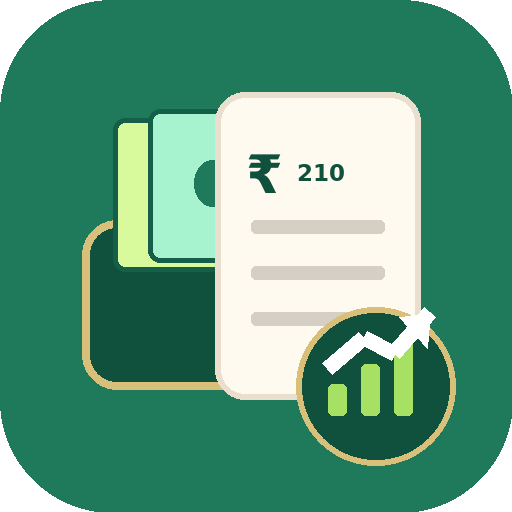
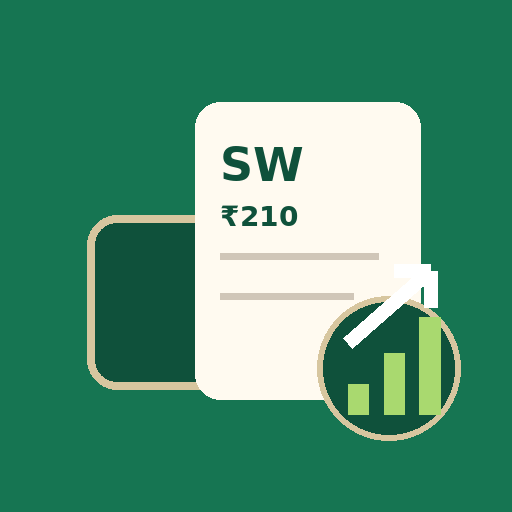
Add files via upload

diff --git a/budget.html b/budget.html
@@ -1,8 +1,1 @@
-<!DOCTYPE html><html lang="en"><head><meta charset="UTF-8"><meta name="viewport" content="width=device-width,initial-scale=1.0"><title>Budget - Spendwise</title><link rel="manifest" href="manifest.json"><meta name="theme-color" content="#1f7a5c"><link rel="apple-touch-icon" href="icon-192.png"><link rel="stylesheet" href="styles.css"></head><body data-page="budget"><main class="wrap"><header class="topbar"><div class="brand"><div class="logo">%</div><div><h1>Budget Split</h1><p>Plan salary before spending</p></div></div><a class="btn" href="index.html">Home</a></header><section class="grid"><div class="card span-5"><h3>Monthly Salary</h3><p class="sub">This is stored only on this phone/browser.</p><label>Salary</label><input id="salary" type="number" placeholder="30000" oninput="setSalary()"><div class="range-row"><div class="range-head"><span>Needs</span><span id="needsText">50%</span></div><input id="needsPercent" type="range" min="0" max="100" oninput="updateBudget()"></div><div class="range-row"><div class="range-head"><span>Wants</span><span id="wantsText">30%</span></div><input id="wantsPercent" type="range" min="0" max="100" oninput="updateBudget()"></div><div class="range-row"><div class="range-head"><span>Savings</span><span id="savingsText">20%</span></div><input id="savingsPercent" type="range" min="0" max="100" oninput="updateBudget()"></div><div id="budgetWarning" class="insight"></div></div><div class="card span-7"><h3>Budget Progress</h3><p class="sub">Compare actual spending against planned salary split.</p><div id="budgetProgress"></div></div></section></main><nav class="bottom-nav">
-  <a data-page="dashboard" href="index.html"><b>⌂</b>Home</a>
-  <a data-page="expense" href="expense.html"><b>＋</b>Expense</a>
-  <a data-page="recurring" href="recurring.html"><b>↻</b>Daily</a>
-  <a data-page="budget" href="budget.html"><b>%</b>Budget</a>
-  <a data-page="reports" href="reports.html"><b>▦</b>Report</a>
-  <a data-page="settings" href="settings.html"><b>⚙</b>Settings</a>
-</nav><script src="app.js"></script></body></html>
+<!DOCTYPE html><html lang="en"><head><meta charset="UTF-8"><meta name="viewport" content="width=device-width, initial-scale=1.0"><title>Budget Split</title><link rel="manifest" href="manifest.json"><meta name="theme-color" content="#167552"><link rel="apple-touch-icon" href="icon-192.png"><link rel="stylesheet" href="style.css"></head><body><div id="toast" class="toast"></div><main class="wrap"><div class="topbar"><a class="back" href="index.html">← Home</a></div><section class="hero"><span class="pill">Salary planning</span><h1>Budget Split</h1><p>Set percentage allocation for needs, wants and savings. Keep total at 100%.</p></section><section class="grid"><div class="card half"><h2>Monthly salary</h2><label>Salary</label><input id="salary" type="number" placeholder="30000"><button class="primary" style="width:100%;margin-top:12px" onclick="saveBudget()">Save salary & split</button></div><div class="card half"><h2>Split control</h2><div class="range-row"><div class="range-head"><span>Needs</span><span id="needsText">50%</span></div><input id="needs" type="range" min="0" max="100" oninput="live()"></div><div class="range-row"><div class="range-head"><span>Wants</span><span id="wantsText">30%</span></div><input id="wants" type="range" min="0" max="100" oninput="live()"></div><div class="range-row"><div class="range-head"><span>Savings</span><span id="savingsText">20%</span></div><input id="savings" type="range" min="0" max="100" oninput="live()"></div><div id="warning" class="insight"></div></div><div class="card span-12"><h2>Budget progress</h2><div id="progress"></div></div></section></main><script src="app.js"></script><script>nav('budget');function live(){['needs','wants','savings'].forEach(k=>qs(k+'Text').textContent=qs(k).value+'%');const total=Number(qs('needs').value)+Number(qs('wants').value)+Number(qs('savings').value);qs('warning').innerHTML=total===100?'Balanced at <strong>100%</strong>.':`Current total is <strong>${total}%</strong>. Adjust it to 100%.`}function saveBudget(){state.salary=Number(qs('salary').value||0);state.budget={needs:Number(qs('needs').value),wants:Number(qs('wants').value),savings:Number(qs('savings').value)};save();toast('Budget saved');render()}function render(){qs('salary').value=state.salary||'';qs('needs').value=state.budget.needs;qs('wants').value=state.budget.wants;qs('savings').value=state.budget.savings;live();const cats=[['needs','Needs','blue'],['wants','Wants','orange'],['savings','Savings','green'],['debt','Debt','red']];qs('progress').innerHTML=cats.map(([key,label,color])=>{const budget=key==='debt'?state.salary*.15:state.salary*((state.budget[key]||0)/100);const spent=categorySpend(key);const pct=budget?(spent/budget)*100:0;const rem=budget-spent;return `<div class="insight"><div class="row"><div><strong>${label}</strong><p class="sub">${rupee(spent)} used from ${rupee(budget)}</p></div><span class="tag ${rem<0?'tag-red':'tag-blue'}">${rem<0?'Over '+rupee(Math.abs(rem)):'Left '+rupee(rem)}</span></div><div class="meter"><div class="bar ${rem<0?'red':color}" style="width:${Math.min(pct,100)}%"></div></div></div>`}).join('')}render();</script></body></html>

diff --git a/expense.html b/expense.html
@@ -1,8 +1,1 @@
-<!DOCTYPE html><html lang="en"><head><meta charset="UTF-8"><meta name="viewport" content="width=device-width,initial-scale=1.0"><title>Add Expense - Spendwise</title><link rel="manifest" href="manifest.json"><meta name="theme-color" content="#1f7a5c"><link rel="apple-touch-icon" href="icon-192.png"><link rel="stylesheet" href="styles.css"></head><body data-page="expense"><main class="wrap"><header class="topbar"><div class="brand"><div class="logo">＋</div><div><h1>Add Expense</h1><p>Record what was actually spent today</p></div></div><a class="btn" href="index.html">Home</a></header><div class="page-title"><h2>Today’s actual expense</h2><p class="sub">This compares against the daily recurring limit.</p></div><section class="grid"><div class="card span-7"><h3>Add Expense</h3><div class="form-grid" style="margin-top:14px"><div><label>Expense name</label><input id="expName" placeholder="Extra snacks, petrol, online food"></div><div><label>Amount</label><input id="expAmount" type="number" placeholder="250"></div><div><label>Category</label><select id="expCategory"><option value="food">Food</option><option value="snacks">Snacks</option><option value="travel">Travel</option><option value="badHabit">Bad Habit</option><option value="needs">Needs</option><option value="wants">Wants</option><option value="savings">Savings</option><option value="debt">Debt</option></select></div><div><label>Date</label><input id="expDate" type="date"></div><button class="btn primary full" onclick="addExpense()">Save Expense</button></div></div><div class="card span-5"><h3>Today Summary</h3><div class="insight">Today actual spend: <strong id="todaySpend">₹0</strong></div><div class="insight">This month actual spend: <strong id="monthSpend">₹0</strong></div></div><div class="card span-12"><h3>Recent Expenses</h3><p class="sub">Latest entries from this phone/browser.</p><div class="list" id="expenseList"></div></div></section></main><nav class="bottom-nav">
-  <a data-page="dashboard" href="index.html"><b>⌂</b>Home</a>
-  <a data-page="expense" href="expense.html"><b>＋</b>Expense</a>
-  <a data-page="recurring" href="recurring.html"><b>↻</b>Daily</a>
-  <a data-page="budget" href="budget.html"><b>%</b>Budget</a>
-  <a data-page="reports" href="reports.html"><b>▦</b>Report</a>
-  <a data-page="settings" href="settings.html"><b>⚙</b>Settings</a>
-</nav><script src="app.js"></script></body></html>
+<!DOCTYPE html><html lang="en"><head><meta charset="UTF-8"><meta name="viewport" content="width=device-width, initial-scale=1.0"><title>Add Expense</title><link rel="manifest" href="manifest.json"><meta name="theme-color" content="#167552"><link rel="apple-touch-icon" href="icon-192.png"><link rel="stylesheet" href="style.css"></head><body><div id="toast" class="toast"></div><main class="wrap"><div class="topbar"><a class="back" href="index.html">← Home</a></div><section class="hero"><span class="pill">Actual spending entry</span><h1>Add Expense</h1><p>Add what was actually spent today. The app will compare it with the planned daily limit.</p></section><section class="grid"><div class="card two-third"><h2>New actual expense</h2><p class="sub">Example: spent ₹250 today while daily fixed limit is ₹200, report shows crossed by ₹50.</p><div class="form"><div><label>Expense name</label><input id="name" placeholder="Extra snacks, petrol, food order"></div><div><label>Amount</label><input id="amount" type="number" placeholder="250"></div><div><label>Category</label><select id="category"><option value="food">Food</option><option value="snacks">Snacks</option><option value="travel">Travel</option><option value="badHabit">Bad Habit</option><option value="needs">Needs</option><option value="wants">Wants</option><option value="savings">Savings</option><option value="debt">Debt</option></select></div><div><label>Date</label><input id="date" type="date"></div><button class="primary full" onclick="add()">Save expense</button></div></div><div class="card third stat"><p>Today spent</p><h3 id="today">₹0</h3><p id="todayHint">Actual expense total.</p></div><div class="card span-12"><h2>Today’s entries</h2><p class="sub">Only today’s expenses are shown here to avoid clutter.</p><div id="list" class="list"></div></div></section></main><script src="app.js"></script><script>nav('expense');qs('date').value=todayISO;function add(){const name=qs('name').value.trim(),amount=Number(qs('amount').value),category=qs('category').value,date=qs('date').value||todayISO;if(!name||!amount||amount<=0){alert('Enter valid expense details');return}state.expenses.unshift({id:Date.now(),name,amount,category,date});save();qs('name').value='';qs('amount').value='';toast('Expense added');render()}function del(id){state.expenses=state.expenses.filter(e=>e.id!==id);save();render()}function render(){qs('today').textContent=rupee(todaySpend());const limit=dailyLimit(),spent=todaySpend();qs('todayHint').textContent=limit&&spent>limit?`Limit crossed by ${rupee(spent-limit)}`:`Daily limit ${rupee(limit)}`;const rows=state.expenses.filter(e=>e.date===todayISO);qs('list').innerHTML=rows.length?rows.map(e=>`<div class="item"><div><strong>${e.name}</strong><small>${e.category} • ${e.date}</small><br><span class="tag tag-blue">${rupee(e.amount)}</span></div><button class="danger" onclick="del(${e.id})">Delete</button></div>`).join(''):'<div class="empty">No expense added today.</div>'}render();</script></body></html>

diff --git a/index.html b/index.html
@@ -1,8 +1,1 @@
-<!DOCTYPE html><html lang="en"><head><meta charset="UTF-8"><meta name="viewport" content="width=device-width,initial-scale=1.0"><title>Spendwise Daily</title><link rel="manifest" href="manifest.json"><meta name="theme-color" content="#1f7a5c"><meta name="mobile-web-app-capable" content="yes"><meta name="apple-mobile-web-app-capable" content="yes"><meta name="apple-mobile-web-app-title" content="Spendwise"><link rel="apple-touch-icon" href="icon-192.png"><link rel="stylesheet" href="styles.css"></head><body data-page="dashboard"><main class="wrap"><header class="topbar"><div class="brand"><div class="logo">₹</div><div><h1>Spendwise Daily</h1><p>Offline daily expense PWA</p></div></div><a class="btn" href="settings.html">Settings</a></header><section class="hero"><span class="eyebrow">Daily limit + recurring spend tracker</span><h2>Control the small daily leaks.</h2><p>Track fixed daily habits and actual expenses. The dashboard tells your colleague exactly when today’s spending crosses the limit.</p></section><section class="grid"><div class="card span-3 stat"><p class="sub">Today planned limit</p><div class="num" id="dailyLimit">₹0</div></div><div class="card span-3 stat"><p class="sub">Today actual spend</p><div class="num" id="todaySpend">₹0</div></div><div class="card span-3 stat"><p class="sub">Monthly habit cost</p><div class="num" id="monthlyHabit">₹0</div></div><div class="card span-3 stat"><p class="sub">Month actual spend</p><div class="num" id="monthSpend">₹0</div></div><div class="card span-8"><h3>Daily Spend Meter</h3><p class="sub">Actual spend compared with planned daily recurring limit.</p><div class="meter"><div id="dailyBar" class="bar blue"></div></div><div id="dailyResult" class="insight"></div><div class="quick"><a href="expense.html">Add expense<span>Today’s actual spend</span></a><a href="recurring.html">Daily recurring<span>Smoking, snacks, food</span></a><a href="budget.html">Budget split<span>Needs, wants, savings</span></a><a href="reports.html">View report<span>Monthly leakage</span></a></div></div><div class="card span-4"><h3>Smart Insights</h3><p class="sub">Useful messages based on current data.</p><div id="quickInsights"></div></div></section></main><nav class="bottom-nav">
-  <a data-page="dashboard" href="index.html"><b>⌂</b>Home</a>
-  <a data-page="expense" href="expense.html"><b>＋</b>Expense</a>
-  <a data-page="recurring" href="recurring.html"><b>↻</b>Daily</a>
-  <a data-page="budget" href="budget.html"><b>%</b>Budget</a>
-  <a data-page="reports" href="reports.html"><b>▦</b>Report</a>
-  <a data-page="settings" href="settings.html"><b>⚙</b>Settings</a>
-</nav><script src="app.js"></script></body></html>
+<!DOCTYPE html><html lang="en"><head><meta charset="UTF-8"><meta name="viewport" content="width=device-width, initial-scale=1.0"><title>Spendwise Daily</title><link rel="manifest" href="manifest.json"><meta name="theme-color" content="#167552"><link rel="apple-touch-icon" href="icon-192.png"><link rel="stylesheet" href="style.css"></head><body><div id="toast" class="toast"></div><main class="wrap"><section class="hero"><span class="pill">Installable daily expense PWA</span><h1>Spendwise Daily</h1><p>A clean mobile-first money assistant for daily recurring expenses, actual spend tracking, budget split and reports.</p></section><section class="grid"><div class="card third stat"><p>Today Limit</p><h3 id="limit">₹0</h3><p>From recurring daily expenses.</p></div><div class="card third stat"><p>Today Spent</p><h3 id="spent">₹0</h3><p>Actual expenses added today.</p></div><div class="card third stat"><p>Monthly Habits</p><h3 id="monthly">₹0</h3><p>Daily recurring cost projection.</p></div><div class="card two-third"><h2>Today’s spend meter</h2><p class="sub">Your colleague can open this first and instantly know whether today is under control.</p><div id="status" class="insight"></div><div class="meter"><div id="dailyBar" class="bar blue"></div></div><p id="meterHint" class="sub"></p></div><div class="card third"><h2>Quick actions</h2><p class="sub">Separate pages keep the app clean on mobile.</p><div class="quick"><a href="expense.html">Add expense<small>Enter today’s real spend</small></a><a href="recurring.html">Daily fixed spend<small>Smoking, snacks, food, tea</small></a><a href="budget.html">Budget split<small>Needs, wants, savings</small></a><a href="reports.html">Reports<small>Monthly leakage and alerts</small></a></div></div><div class="card half"><h2>Salary setup</h2><p class="sub">Saved on this device using browser cache/localStorage.</p><label>Monthly salary</label><input id="salary" type="number" placeholder="30000"><button class="primary" style="width:100%;margin-top:12px" onclick="saveSalary()">Save salary</button></div><div class="card half"><h2>Money summary</h2><div id="summary"></div></div></section></main><script src="app.js"></script><script>nav('home');function saveSalary(){state.salary=Number(qs('salary').value||0);save();toast('Salary saved');render()}function render(){qs('limit').textContent=rupee(dailyLimit());qs('spent').textContent=rupee(todaySpend());qs('monthly').textContent=rupee(recurringMonthly());qs('salary').value=state.salary||'';qs('status').innerHTML=dailyStatusHTML();const limit=dailyLimit(),spent=todaySpend();setMeter('dailyBar',limit?(spent/limit)*100:0,spent>limit?'red':'green');qs('meterHint').textContent=limit?`Today planned ${rupee(limit)} and actual spend is ${rupee(spent)}.`:'Create daily recurring expenses to start tracking daily limit.';qs('summary').innerHTML=`<div class="insight">Salary: <strong>${rupee(state.salary)}</strong></div><div class="insight">Total manual expenses: <strong>${rupee(allSpent())}</strong></div><div class="insight">Balance after manual expenses: <strong>${rupee(state.salary-allSpent())}</strong></div>`}render();</script></body></html>

diff --git a/recurring.html b/recurring.html
@@ -1,8 +1,1 @@
-<!DOCTYPE html><html lang="en"><head><meta charset="UTF-8"><meta name="viewport" content="width=device-width,initial-scale=1.0"><title>Daily Recurring - Spendwise</title><link rel="manifest" href="manifest.json"><meta name="theme-color" content="#1f7a5c"><link rel="apple-touch-icon" href="icon-192.png"><link rel="stylesheet" href="styles.css"></head><body data-page="recurring"><main class="wrap"><header class="topbar"><div class="brand"><div class="logo">↻</div><div><h1>Daily Recurring</h1><p>Fixed daily habit and lifestyle costs</p></div></div><a class="btn" href="index.html">Home</a></header><section class="grid"><div class="card span-4 stat"><p class="sub">Daily limit</p><div class="num" id="dailyLimit">₹0</div></div><div class="card span-4 stat"><p class="sub">Monthly habit cost</p><div class="num" id="monthlyHabit">₹0</div></div><div class="card span-4 stat"><p class="sub">Yearly habit impact</p><div class="num" id="yearlyHabit">₹0</div></div><div class="card span-5"><h3>Add recurring daily expense</h3><p class="sub">Example: smoking ₹30/day, snacks ₹50/day, food ordering ₹100/day.</p><div class="form-grid"><div><label>Name</label><input id="recName" placeholder="Smoking, snacks, tea"></div><div><label>Daily amount</label><input id="recAmount" type="number" placeholder="30"></div><div><label>Category</label><select id="recCategory"><option value="wants">Wants</option><option value="needs">Needs</option><option value="badHabit">Bad Habit</option><option value="food">Food</option><option value="travel">Travel</option></select></div><div><label>Frequency</label><select id="recFrequency"><option value="daily">Every day</option><option value="workdays">Only workdays</option></select></div><button class="btn primary full" onclick="addRecurring()">Add Recurring</button></div></div><div class="card span-7"><h3>Recurring List</h3><p class="sub">These items create the daily spend limit.</p><div class="list" id="recurringList"></div></div></section></main><nav class="bottom-nav">
-  <a data-page="dashboard" href="index.html"><b>⌂</b>Home</a>
-  <a data-page="expense" href="expense.html"><b>＋</b>Expense</a>
-  <a data-page="recurring" href="recurring.html"><b>↻</b>Daily</a>
-  <a data-page="budget" href="budget.html"><b>%</b>Budget</a>
-  <a data-page="reports" href="reports.html"><b>▦</b>Report</a>
-  <a data-page="settings" href="settings.html"><b>⚙</b>Settings</a>
-</nav><script src="app.js"></script></body></html>
+<!DOCTYPE html><html lang="en"><head><meta charset="UTF-8"><meta name="viewport" content="width=device-width, initial-scale=1.0"><title>Recurring Daily</title><link rel="manifest" href="manifest.json"><meta name="theme-color" content="#167552"><link rel="apple-touch-icon" href="icon-192.png"><link rel="stylesheet" href="style.css"></head><body><div id="toast" class="toast"></div><main class="wrap"><div class="topbar"><a class="back" href="index.html">← Home</a></div><section class="hero"><span class="pill">Daily fixed spending</span><h1>Recurring Daily</h1><p>Add fixed daily expenses like smoking ₹30, snacks ₹50, food ordering ₹100, parking ₹20.</p></section><section class="grid"><div class="card two-third"><h2>Add daily recurring expense</h2><p class="sub">This creates the planned daily limit.</p><div class="form"><div><label>Name</label><input id="name" placeholder="Smoking, snacks, tea"></div><div><label>Daily amount</label><input id="amount" type="number" placeholder="30"></div><div><label>Category</label><select id="category"><option value="badHabit">Bad Habit</option><option value="food">Food</option><option value="travel">Travel</option><option value="wants">Wants</option><option value="needs">Needs</option></select></div><div><label>Frequency</label><select id="frequency"><option value="daily">Every day</option><option value="workdays">Only workdays</option></select></div><button class="primary full" onclick="add()">Add recurring expense</button></div></div><div class="card third stat"><p>Daily limit</p><h3 id="limit">₹0</h3><p>Sum of all daily recurring items.</p></div><div class="card span-12"><h2>Recurring items</h2><div id="list" class="list"></div></div></section></main><script src="app.js"></script><script>nav('recurring');function add(){const name=qs('name').value.trim(),amount=Number(qs('amount').value),category=qs('category').value,frequency=qs('frequency').value;if(!name||!amount||amount<=0){alert('Enter valid recurring details');return}state.recurring.unshift({id:Date.now(),name,amount,category,frequency});save();qs('name').value='';qs('amount').value='';toast('Recurring item added');render()}function del(id){state.recurring=state.recurring.filter(e=>e.id!==id);save();render()}function render(){qs('limit').textContent=rupee(dailyLimit());qs('list').innerHTML=state.recurring.length?state.recurring.map(i=>{const days=i.frequency==='workdays'?22:30;return `<div class="item"><div><strong>${i.name}</strong><small>${rupee(i.amount)} per day • ${i.category} • ${i.frequency}</small><br><span class="tag tag-orange">${rupee(i.amount*days)}/month</span></div><button class="danger" onclick="del(${i.id})">Delete</button></div>`}).join(''):'<div class="empty">No daily recurring expenses added yet.</div>'}render();</script></body></html>

diff --git a/reports.html b/reports.html
@@ -1,8 +1,1 @@
-<!DOCTYPE html><html lang="en"><head><meta charset="UTF-8"><meta name="viewport" content="width=device-width,initial-scale=1.0"><title>Reports - Spendwise</title><link rel="manifest" href="manifest.json"><meta name="theme-color" content="#1f7a5c"><link rel="apple-touch-icon" href="icon-192.png"><link rel="stylesheet" href="styles.css"></head><body data-page="reports"><main class="wrap"><header class="topbar"><div class="brand"><div class="logo">▦</div><div><h1>Money Report</h1><p>Monthly leakage and habit impact</p></div></div><a class="btn" href="index.html">Home</a></header><section class="grid"><div class="card span-7"><h3>Smart Report</h3><p class="sub">Designed to show value immediately to someone who currently maintains Excel.</p><div id="reportCards"></div></div><div class="card span-5"><h3>Backup</h3><p class="sub">Export local data as JSON before changing phone/browser.</p><button class="btn primary" onclick="exportData()" style="width:100%;margin-top:12px">Export Backup</button><div class="notice">This version stores data in localStorage. It is private to the phone/browser but not synced to other devices.</div></div></section></main><nav class="bottom-nav">
-  <a data-page="dashboard" href="index.html"><b>⌂</b>Home</a>
-  <a data-page="expense" href="expense.html"><b>＋</b>Expense</a>
-  <a data-page="recurring" href="recurring.html"><b>↻</b>Daily</a>
-  <a data-page="budget" href="budget.html"><b>%</b>Budget</a>
-  <a data-page="reports" href="reports.html"><b>▦</b>Report</a>
-  <a data-page="settings" href="settings.html"><b>⚙</b>Settings</a>
-</nav><script src="app.js"></script></body></html>
+<!DOCTYPE html><html lang="en"><head><meta charset="UTF-8"><meta name="viewport" content="width=device-width, initial-scale=1.0"><title>Reports</title><link rel="manifest" href="manifest.json"><meta name="theme-color" content="#167552"><link rel="apple-touch-icon" href="icon-192.png"><link rel="stylesheet" href="style.css"></head><body><main class="wrap"><div class="topbar"><a class="back" href="index.html">← Home</a></div><section class="hero"><span class="pill">Results and insights</span><h1>Reports</h1><p>Simple reports that explain daily overspending, monthly leakage, bad habit cost and yearly impact.</p></section><section class="grid"><div class="card third stat"><p>Recurring / month</p><h3 id="recMonth">₹0</h3><p>Daily fixed expenses projected monthly.</p></div><div class="card third stat"><p>Recurring / year</p><h3 id="recYear">₹0</h3><p>Long-term impact of daily spending.</p></div><div class="card third stat"><p>Today status</p><h3 id="todayStatus">₹0</h3><p id="todaySub">Compared with daily limit.</p></div><div class="card half"><h2>Smart report</h2><div id="insights"></div></div><div class="card half"><h2>Category summary</h2><div id="cats"></div></div></section></main><script src="app.js"></script><script>nav('reports');function render(){const month=recurringMonthly(),year=month*12,limit=dailyLimit(),spent=todaySpend(),diff=spent-limit;qs('recMonth').textContent=rupee(month);qs('recYear').textContent=rupee(year);qs('todayStatus').textContent=diff>0?rupee(diff):rupee(Math.abs(diff));qs('todaySub').textContent=diff>0?'Daily limit crossed':'Remaining from daily limit';const bad=state.recurring.filter(i=>i.category==='badHabit').reduce((s,i)=>s+i.amount*(i.frequency==='workdays'?22:30),0);let ins=[];if(!state.salary)ins.push('Add salary in Budget page to unlock income comparison.');if(!state.recurring.length)ins.push('Add recurring daily spends to see monthly leakage report.');if(diff>0)ins.push(`Today you crossed the daily limit by ${rupee(diff)}. If repeated daily, extra monthly leakage can become ${rupee(diff*30)}.`);if(diff<=0&&limit)ins.push(`Today is under control by ${rupee(Math.abs(diff))}.`);if(bad)ins.push(`Bad habit cost is ${rupee(bad)} monthly. Reducing 50% saves ${rupee(bad/2)} monthly.`);if(state.salary&&month>state.salary*.25)ins.push(`Recurring daily expenses are more than 25% of salary. This needs attention.`);if(!ins.length)ins.push('Start adding daily recurring and actual expenses to generate reports.');qs('insights').innerHTML=ins.map(i=>`<div class="insight">${i}</div>`).join('');const cats=['food','snacks','travel','badHabit','needs','wants','savings','debt'];qs('cats').innerHTML=cats.map(c=>`<div class="insight"><div class="row"><strong>${c}</strong><span class="tag tag-blue">${rupee(categorySpend(c))}</span></div></div>`).join('')}render();</script></body></html>

diff --git a/settings.html b/settings.html
@@ -1,8 +1,1 @@
-<!DOCTYPE html><html lang="en"><head><meta charset="UTF-8"><meta name="viewport" content="width=device-width,initial-scale=1.0"><title>Settings - Spendwise</title><link rel="manifest" href="manifest.json"><meta name="theme-color" content="#1f7a5c"><link rel="apple-touch-icon" href="icon-192.png"><link rel="stylesheet" href="styles.css"></head><body data-page="settings"><main class="wrap"><header class="topbar"><div class="brand"><div class="logo">⚙</div><div><h1>Settings</h1><p>Install, reset, and local storage details</p></div></div><a class="btn" href="index.html">Home</a></header><section class="grid"><div class="card span-6"><h3>Install as Mobile App</h3><p class="sub">After hosting, open in Chrome on mobile and add to home screen.</p><div id="installBox" class="install-box"><button class="btn primary" onclick="installApp()" style="width:100%">Install Spendwise</button></div><div class="notice">If install button is not visible: Chrome → three dots → Add to Home screen.</div></div><div class="card span-6"><h3>Data Storage</h3><p class="sub">Data is saved in this device browser cache using localStorage. No Firebase database is used in this version.</p><button class="btn danger" onclick="resetAll()" style="width:100%;margin-top:12px">Reset All Data</button></div><div class="card span-12"><h3>Required Files</h3><div class="insight">Upload all files together: index.html, expense.html, recurring.html, budget.html, reports.html, settings.html, styles.css, app.js, manifest.json, service-worker.js, icon-192.png, icon-512.png.</div></div></section></main><nav class="bottom-nav">
-  <a data-page="dashboard" href="index.html"><b>⌂</b>Home</a>
-  <a data-page="expense" href="expense.html"><b>＋</b>Expense</a>
-  <a data-page="recurring" href="recurring.html"><b>↻</b>Daily</a>
-  <a data-page="budget" href="budget.html"><b>%</b>Budget</a>
-  <a data-page="reports" href="reports.html"><b>▦</b>Report</a>
-  <a data-page="settings" href="settings.html"><b>⚙</b>Settings</a>
-</nav><script src="app.js"></script></body></html>
+<!DOCTYPE html><html lang="en"><head><meta charset="UTF-8"><meta name="viewport" content="width=device-width, initial-scale=1.0"><title>Settings</title><link rel="manifest" href="manifest.json"><meta name="theme-color" content="#167552"><link rel="apple-touch-icon" href="icon-192.png"><link rel="stylesheet" href="style.css"></head><body><div id="toast" class="toast"></div><main class="wrap"><div class="topbar"><a class="back" href="index.html">← Home</a></div><section class="hero"><span class="pill">Device cache settings</span><h1>Settings</h1><p>Manage local mobile cache, backup and reset. Data stays on the user’s phone/browser.</p></section><section class="grid"><div class="card half"><h2>Backup</h2><p class="sub">Download data as JSON before changing phone or clearing browser data.</p><button class="primary" style="width:100%" onclick="exportJSON()">Download backup</button></div><div class="card half"><h2>Import backup</h2><p class="sub">Restore previously downloaded Spendwise backup file.</p><input type="file" accept="application/json" onchange="importJSON(this.files[0])"></div><div class="card span-12"><h2>Reset app</h2><p class="sub">This deletes salary, recurring expenses and manual expenses from this device only.</p><button class="danger" onclick="clearAll()">Delete all local data</button></div><div class="card span-12"><h2>PWA install note</h2><div class="insight">Host this folder on Firebase/GitHub Pages/Vercel. Then open in mobile Chrome and tap <strong>Add to Home screen</strong>.</div></div></section></main><script src="app.js"></script><script>nav('settings');</script></body></html>

diff --git a/style.css b/style.css
@@ -1,0 +1,8 @@
+:root{
+  --bg:#f6f1e8;--card:#fffaf1;--ink:#20242b;--muted:#74706a;--line:#e4d8c5;
+  --green:#167552;--green2:#e7f4ee;--orange:#c4662f;--orange2:#fff0e6;--red:#b42318;--red2:#fee4e2;--blue:#245b85;--blue2:#e8f2f8;
+  --shadow:0 18px 36px rgba(44,37,25,.08)
+}
+*{box-sizing:border-box;margin:0;padding:0;font-family:Inter,system-ui,-apple-system,BlinkMacSystemFont,"Segoe UI",sans-serif}
+body{background:radial-gradient(circle at top left,rgba(22,117,82,.14),transparent 30%),radial-gradient(circle at top right,rgba(196,102,47,.13),transparent 34%),var(--bg);color:var(--ink);min-height:100vh;padding-bottom:88px}
+a{text-decoration:none;color:inherit}.wrap{max-width:980px;margin:auto;padding:16px}.hero{background:linear-gradient(135deg,#152033,#27354a);color:white;border-radius:28px;padding:24px;margin:0 0 16px;box-shadow:var(--shadow);position:relative;overflow:hidden}.hero:after{content:"";position:absolute;right:-70px;top:-70px;width:220px;height:220px;border-radius:50%;background:rgba(255,255,255,.08)}.hero h1{font-size:34px;line-height:1;letter-spacing:-1.2px;margin:8px 0}.hero p{color:#d9e0ea;line-height:1.55;max-width:620px}.pill{display:inline-flex;border-radius:999px;padding:7px 11px;background:rgba(255,255,255,.13);font-size:12px;font-weight:900;color:white}.grid{display:grid;grid-template-columns:repeat(12,1fr);gap:14px}.card{grid-column:span 12;background:rgba(255,250,241,.9);border:1px solid var(--line);border-radius:24px;padding:18px;box-shadow:var(--shadow);backdrop-filter:blur(12px)}.half{grid-column:span 6}.third{grid-column:span 4}.two-third{grid-column:span 8}h2{font-size:20px;letter-spacing:-.3px;margin-bottom:6px}.sub{font-size:13px;color:var(--muted);line-height:1.5;margin-bottom:14px}label{display:block;text-transform:uppercase;letter-spacing:.6px;font-size:12px;font-weight:950;color:#675d4f;margin:0 0 8px}input,select{width:100%;border:1px solid #d8cbb7;background:#fffdf8;border-radius:16px;padding:14px;font-size:15px;outline:none;color:var(--ink)}input:focus,select:focus{border-color:var(--green);box-shadow:0 0 0 4px rgba(22,117,82,.12)}button,.btn{border:0;border-radius:16px;padding:14px 16px;font-weight:950;cursor:pointer;display:inline-flex;align-items:center;justify-content:center;gap:8px}.primary{background:var(--green);color:#fff}.secondary{background:#efe5d4;color:#2f2a22}.danger{background:var(--red2);color:var(--red);padding:9px 12px;font-size:12px}.form{display:grid;grid-template-columns:1fr 1fr;gap:13px}.full{grid-column:1/-1}.stat h3{font-size:31px;letter-spacing:-1.2px;margin-top:6px}.stat p{color:var(--muted);font-size:13px;line-height:1.4}.meter{height:13px;background:#e9ddcb;border-radius:999px;overflow:hidden;margin:12px 0 8px}.bar{height:100%;width:0;border-radius:999px;transition:.35s}.green{background:var(--green)}.orange{background:var(--orange)}.red{background:var(--red)}.blue{background:var(--blue)}.row{display:flex;justify-content:space-between;gap:14px;align-items:center}.big{font-size:clamp(38px,10vw,72px);font-weight:1000;letter-spacing:-2.5px}.good{color:var(--green)}.bad{color:var(--red)}.tag{display:inline-flex;padding:6px 9px;border-radius:999px;font-size:12px;font-weight:950;margin-top:7px}.tag-green{background:var(--green2);color:var(--green)}.tag-orange{background:var(--orange2);color:var(--orange)}.tag-red{background:var(--red2);color:var(--red)}.tag-blue{background:var(--blue2);color:var(--blue)}.list{display:flex;flex-direction:column;gap:10px}.item{background:#fffdf8;border:1px solid var(--line);border-radius:18px;padding:14px;display:flex;justify-content:space-between;gap:12px;align-items:center}.item strong{display:block;margin-bottom:3px}.item small{color:var(--muted)}.empty{text-align:center;color:var(--muted);border:1px dashed #d8cbb7;border-radius:18px;background:#fffdf8;padding:24px}.insight{background:#fffdf8;border:1px solid var(--line);border-radius:18px;padding:14px;line-height:1.55;color:#3f3a31;margin-top:10px}.range-row{margin-top:16px}.range-head{display:flex;justify-content:space-between;font-weight:950;margin-bottom:9px}input[type=range]{padding:0;accent-color:var(--green)}.nav{position:fixed;left:10px;right:10px;bottom:10px;z-index:50;max-width:760px;margin:auto;background:rgba(255,250,241,.96);border:1px solid var(--line);box-shadow:0 18px 38px rgba(44,37,25,.16);backdrop-filter:blur(14px);border-radius:24px;padding:8px;display:grid;grid-template-columns:repeat(6,1fr);gap:4px}.nav a{border-radius:18px;padding:10px 4px;text-align:center;font-size:11px;font-weight:950;color:#706655}.nav a span{display:block;font-size:18px;margin-bottom:3px}.nav a.active{background:#1f2933;color:white}.quick{display:grid;grid-template-columns:1fr 1fr;gap:12px}.quick a{background:#fffdf8;border:1px solid var(--line);border-radius:20px;padding:16px;font-weight:950}.quick small{display:block;color:var(--muted);font-weight:700;margin-top:5px;line-height:1.4}.topbar{display:flex;justify-content:space-between;align-items:center;margin-bottom:14px}.back{background:#efe5d4;border-radius:999px;padding:10px 13px;font-size:13px;font-weight:950}.toast{position:fixed;top:14px;left:50%;transform:translateX(-50%);background:#172033;color:white;border-radius:999px;padding:10px 14px;font-weight:900;box-shadow:var(--shadow);z-index:80;display:none}@media(max-width:760px){.wrap{padding:12px}.hero{border-radius:24px;padding:20px}.hero h1{font-size:31px}.half,.third,.two-third{grid-column:span 12}.form{grid-template-columns:1fr}.nav{grid-template-columns:repeat(3,1fr);border-radius:22px}.quick{grid-template-columns:1fr}.row{align-items:flex-start}.hide-mobile{display:none}}

diff --git a/nav.html b/nav.html
@@ -1,0 +1,1 @@
+<!-- Navigation is generated by app.js nav('pageName') -->